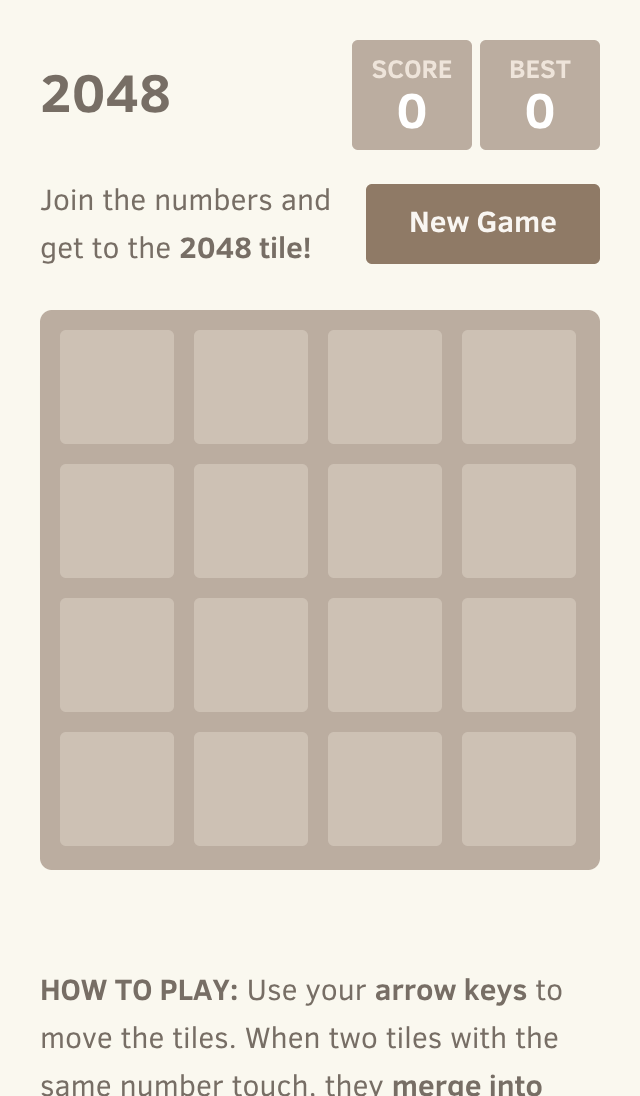
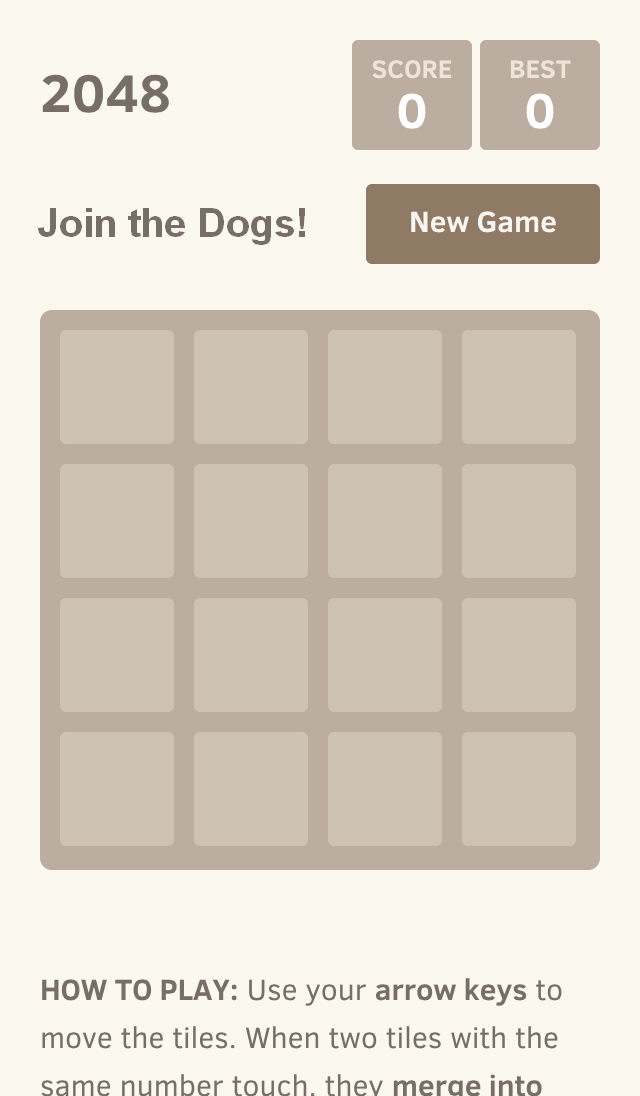
insert dog images

Changed region(s): [[0.0625, 0.1551, 0.5, 0.2482]]

diff --git a/style/main.css b/style/main.css
@@ -314,25 +314,32 @@ hr {
     font-size: 55px; }
   .tile.tile-2 .tile-inner {
     background: #eee4da;
+    background: url('../tile-sets/0002.jpg');
     box-shadow: 0 0 30px 10px rgba(243, 215, 116, 0), inset 0 0 0 1px rgba(255, 255, 255, 0); }
   .tile.tile-4 .tile-inner {
     background: #ede0c8;
+    background: url('../tile-sets/0004.jpg');
     box-shadow: 0 0 30px 10px rgba(243, 215, 116, 0), inset 0 0 0 1px rgba(255, 255, 255, 0); }
   .tile.tile-8 .tile-inner {
     color: #f9f6f2;
-    background: #f2b179; }
+    background: #f2b179;
+    background: url('../tile-sets/0008.jpg'); }
   .tile.tile-16 .tile-inner {
     color: #f9f6f2;
-    background: #f59563; }
+    background: #f59563;
+    background: url('../tile-sets/0016.jpg'); }
   .tile.tile-32 .tile-inner {
     color: #f9f6f2;
-    background: #f67c5f; }
+    background: #f67c5f; 
+    background: url('../tile-sets/0032.jpg'); }
   .tile.tile-64 .tile-inner {
     color: #f9f6f2;
-    background: #f65e3b; }
+    background: #f65e3b;
+    background: url('../tile-sets/0064.jpg'); }
   .tile.tile-128 .tile-inner {
     color: #f9f6f2;
     background: #edcf72;
+    background: url('../tile-sets/0128.jpg');
     box-shadow: 0 0 30px 10px rgba(243, 215, 116, 0.2381), inset 0 0 0 1px rgba(255, 255, 255, 0.14286);
     font-size: 45px; }
     @media screen and (max-width: 520px) {
@@ -341,6 +348,7 @@ hr {
   .tile.tile-256 .tile-inner {
     color: #f9f6f2;
     background: #edcc61;
+    background: url('../tile-sets/0256.jpg');
     box-shadow: 0 0 30px 10px rgba(243, 215, 116, 0.31746), inset 0 0 0 1px rgba(255, 255, 255, 0.19048);
     font-size: 45px; }
     @media screen and (max-width: 520px) {
@@ -349,6 +357,7 @@ hr {
   .tile.tile-512 .tile-inner {
     color: #f9f6f2;
     background: #edc850;
+    background: url('../tile-sets/0512.jpg');
     box-shadow: 0 0 30px 10px rgba(243, 215, 116, 0.39683), inset 0 0 0 1px rgba(255, 255, 255, 0.2381);
     font-size: 45px; }
     @media screen and (max-width: 520px) {
@@ -357,6 +366,7 @@ hr {
   .tile.tile-1024 .tile-inner {
     color: #f9f6f2;
     background: #edc53f;
+    background: url('../tile-sets/1024.jpg');
     box-shadow: 0 0 30px 10px rgba(243, 215, 116, 0.47619), inset 0 0 0 1px rgba(255, 255, 255, 0.28571);
     font-size: 35px; }
     @media screen and (max-width: 520px) {
@@ -365,6 +375,7 @@ hr {
   .tile.tile-2048 .tile-inner {
     color: #f9f6f2;
     background: #edc22e;
+    background: url('../tile-sets/2048.jpg');
     box-shadow: 0 0 30px 10px rgba(243, 215, 116, 0.55556), inset 0 0 0 1px rgba(255, 255, 255, 0.33333);
     font-size: 35px; }
     @media screen and (max-width: 520px) {

diff --git a/js/html_actuator.js b/js/html_actuator.js
@@ -62,7 +62,7 @@ HTMLActuator.prototype.addTile = function (tile) {
   this.applyClasses(wrapper, classes);
 
   inner.classList.add("tile-inner");
-  inner.textContent = tile.value;
+  //inner.textContent = tile.value;
 
   if (tile.previousPosition) {
     // Make sure that the tile gets rendered in the previous position first
